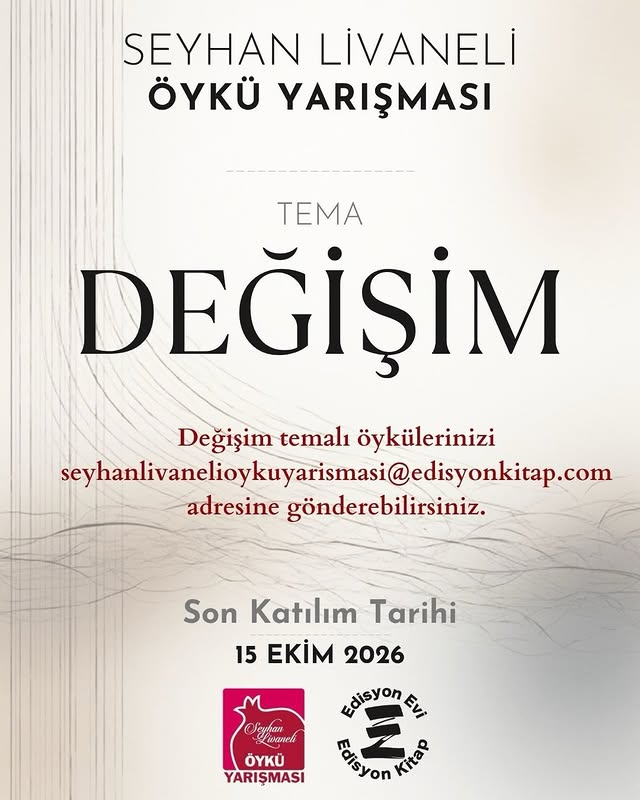
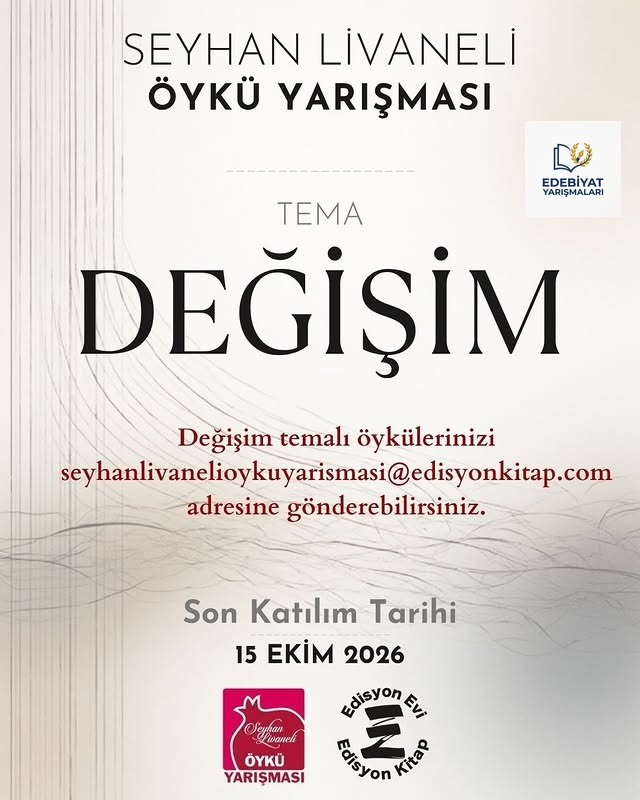
Update titles and descriptions for competition posts to remove ordinal numbers

Changed region(s): [[0.8125, 0.125, 0.9688, 0.2812]]

diff --git a/_posts/evergreen/hikaye/2024-07-13-seyhan-livaneli-oyku-yarismasi.md b/_posts/evergreen/hikaye/2024-07-13-seyhan-livaneli-oyku-yarismasi.md
@@ -1,29 +1,29 @@
 ---
 layout: post
 title: "Seyhan Livaneli Öykü Yarışması"
-description: "Eksik Parça Yayınları'nın öykü türünde kitabı yayımlanmamış 18 yaş üstü yazar ve yazar adaylarına yönelik Seyhan Livaneli Öykü Yarışması'na başvurular başladı."
+description: "Edisyon Kitap'ın öykü türünde kitabı yayımlanmamış 18 yaş üstü yazar ve yazar adaylarına yönelik Seyhan Livaneli Öykü Yarışması'na başvurular başladı."
 date: 2025-08-10
 category: articles
-tags: [her yıl tekrarlanan hikaye, ekim 2025, hikaye yarışması, genel]
-lastDate: 1760479200
-dateHuman: "15 Ekim 2025"
+tags: [her yıl tekrarlanan hikaye, ekim 2026, hikaye yarışması, genel]
+lastDate: 1792011600
+dateHuman: "15 Ekim 2026"
 attendance: "E-Posta"
-comTopic: "Vicdan"
-organizer: "Eksik Parça Yayınları"
+comTopic: "Değişim"
+organizer: "Edisyon Kitap"
 requirements: "18 yaş üzeri herkes katılabilir."
 permalink: "seyhan-livaneli-oyku-yarismasi"
-image: "https://edebiyatyarismalari.com/images/2025/agustos/7-seyhan-livaneli-oyku-odulu.jpg"
-excerpt: "Eksik Parça Yayınları'nın öykü türünde kitabı yayımlanmamış 18 yaş üstü yazar ve yazar adaylarına yönelik Seyhan Livaneli Öykü Yarışması'na başvurular başladı."
+image: "https://edebiyatyarismalari.com/images/2026/temmuz/seyhan-livaneli-oyku-yarismasi-2026.jpg"
+excerpt: "Edisyon Kitap'ın öykü türünde kitabı yayımlanmamış 18 yaş üstü yazar ve yazar adaylarına yönelik Seyhan Livaneli Öykü Yarışması'na başvurular başladı."
 ---
 
 ## Seyhan Livaneli Öykü Yarışması
 
-Eksik Parça Yayınları, öykü türünde kitabı yayımlanmamış 18 yaş üzeri yazar ve yazar adaylarına yönelik **Seyhan Livaneli Öykü Yarışması**'nı her yıl düzenliyor.
+Edisyon Kitap, öykü türünde kitabı yayımlanmamış 18 yaş üzeri yazar ve yazar adaylarına yönelik **Seyhan Livaneli Öykü Yarışması**'nı her yıl düzenliyor.
 
 - Ödül, öykü türünde kitabı yayımlanmamış 18 yaş üzeri yazar ve yazar adaylarına açıktır. (Diğer türlerde kitabı yayımlanmış olmak, başvurmaya engel değildir.)
 - Ödüle, iki öyküyle başvurulur. Öyküler elektronik ortamda veya kâğıt baskı olarak yayımlanmamış, başka bir yarışmadan ödül almamış olmalı ve yarışmanın sonucu açıklanana kadar yayımlanmamalıdır.
 - Her biri en fazla 1500 sözcük uzunluğunda iki öykü, tek Word dosyası içinde gönderilmelidir.
-- Başvuru, adayın kendisi tarafından **[email redacted]** e-posta adresine gönderilmelidir.
+- Başvuru, adayın kendisi tarafından **[email redacted]** e-posta adresine gönderilmelidir.
 - Başvuru için gönderilen e-posta, iki Word dosyasından oluşmalıdır:
     - Birinci dosyada yazarın/yazar adayının adı, iki öyküsünün adları, belirlediği rumuz, adresi, cep telefonu, e-posta adresi ve kısa özgeçmiş bilgisi bulunmalıdır.
     - İki öykünün yer alacağı diğer dosyaya yazarın adı yazılmayacaktır.
@@ -31,9 +31,9 @@ Eksik Parça Yayınları, öykü türünde kitabı yayımlanmamış 18 yaş üze
 - Düzenleme kurulu, jüri üyelerine, ön elemeden geçen adayların dosyalarını isimsiz iletecektir.
 - Düzenleme kurulu, adayların dosyalarını yönetmeliğe uygunluk, özensizlik, belirgin anlatım sorunu, yazım hatası gibi yönlerden inceleyecektir. Yarışmayı düzenleyen kurum ön seçici kurul oluşturma yetkisine sahiptir.
 - Ödüle gönderilen öykülerin hukukî sorumluluğu yazarına aittir. İntihal veya üçüncü kişilerin telif hakkı gibi durumlarda, sorumluluk yazara aittir.
-- Yarışma teması her yıl değişir; en güncel dönemin teması **"Vicdan"** olarak belirlenmiştir.
+- Yarışma teması her yıl değişir; en güncel dönemin teması **"Değişim"** olarak belirlenmiştir.
 - Seçici Kurul üyelerinin birinci derece yakınları, önceki senelerde ödül alan veya finale kalan yazarlar ödüle başvuramaz.
-- Ödülü kazanan yazarın öykü dosyası, Eksik Parça Yayınları tarafından kitaplaştırılır. Yarışma sonucu açıklanana kadar katılımcılar başka bir yayıneviyle kitap anlaşması yapamaz.
+- Ödülü kazanan yazarın öykü dosyası, Edisyon Kitap tarafından kitaplaştırılır. Yarışma sonucu açıklanana kadar katılımcılar başka bir yayıneviyle kitap anlaşması yapamaz.
 - Yarışma sonucu, Seyhan Livaneli'nin doğum günü olan 22 Ocak'ta açıklanır; ödül töreni ise izleyen nisan ayında düzenlenir.
 
 ### Seyhan Livaneli Öykü Yarışması Seçici Kurulu

diff --git a/_posts/evergreen/hikaye/2022-04-06-resat-nuri-guntekin-oyku-yarismasi.md b/_posts/evergreen/hikaye/2022-04-06-resat-nuri-guntekin-oyku-yarismasi.md
@@ -1,7 +1,7 @@
 ---
 layout: post
-title: "4. Reşat Nuri Güntekin Öykü Yarışması"
-description: "Vefa Lisesi '4. Reşat Nuri Güntekin Öykü Yarışması' düzenliyor."
+title: "Reşat Nuri Güntekin Öykü Yarışması"
+description: "Vefa Lisesi 'Reşat Nuri Güntekin Öykü Yarışması' düzenliyor."
 date: 2022-04-06
 author: "Yasemin Eyüpoğlu"
 category: articles
@@ -15,11 +15,11 @@ organizer: "Vefa Lisesi"
 requirements: "Yurt genelindeki lise ve dengi okullarda okuyan tüm öğrenciler katılabilir."
 permalink: "resat-nuri-guntekin-oyku-yarismasi"
 image: "https://edebiyatyarismalari.com/images/2022/nisan/resat-nuri-guntekin-oyku-yarismasi.jpg"
-excerpt:  "Vefa Lisesi <strong> 4. Reşat Nuri Güntekin Öykü Yarışması </strong> düzenliyor."
+excerpt:  "Vefa Lisesi <strong> Reşat Nuri Güntekin Öykü Yarışması </strong> düzenliyor."
 ---
 
-## 4. Reşat Nuri Güntekin Öykü Yarışması
-Vefa Lisesi **4.Reşat Nuri Güntekin Öykü Yarışması** düzenliyor.
+## Reşat Nuri Güntekin Öykü Yarışması
+Vefa Lisesi **Reşat Nuri Güntekin Öykü Yarışması**'nı her yıl düzenliyor.
 
 Yarışma Koşulları:
 - Adaylar, yarışmaya yalnızca bir eserle katılabilir.
@@ -32,7 +32,7 @@ Yarışma Koşulları:
 - Her okul bir (1) hikaye ile yarışmaya katılabilir.
 
 
-### 4. Reşat Nuri Güntekin Öykü Yarışması Ödülleri
+### Reşat Nuri Güntekin Öykü Yarışması Ödülleri
 - Birinciye: 3000 TL + Plaket
 - İkinciye: 2000 TL + Plaket
 - Üçüncüye: 1000 TL + Plaket

diff --git a/_posts/evergreen/hikaye/2022-04-08-sabahattin-ali-oyku-yazma-yarismasi.md b/_posts/evergreen/hikaye/2022-04-08-sabahattin-ali-oyku-yazma-yarismasi.md
@@ -1,7 +1,7 @@
 ---
 layout: post
-title: "5. Sabahattin Ali Öykü Yazma Yarışması"
-description: "Özel Fenerbahçe Anadolu Lisesi '5. Sabahattin Ali Öykü Yazma Yarışması' düzenliyor."
+title: "Sabahattin Ali Öykü Yazma Yarışması"
+description: "Özel Fenerbahçe Anadolu Lisesi 'Sabahattin Ali Öykü Yazma Yarışması' düzenliyor."
 date: 2022-04-08
 author: "Yasemin Eyüpoğlu"
 category: articles
@@ -15,11 +15,11 @@ organizer: "Özel Fenerbahçe Anadolu Lisesi"
 requirements: "Türkiye geneli resmi-özel lisede okuyan öğrenciler yarışmaya katılabilir."
 permalink: "sabahattin-ali-oyku-yazma-yarismasi"
 image: "https://edebiyatyarismalari.com/images/2022/nisan/sabahattin-ali-oyku-yazma-yarismasi.jpg"
-excerpt:  "Özel Fenerbahçe Anadolu Lisesi <strong> 5. Sabahattin Ali Öykü Yazma Yarışması </strong> düzenliyor."
+excerpt:  "Özel Fenerbahçe Anadolu Lisesi <strong> Sabahattin Ali Öykü Yazma Yarışması </strong> düzenliyor."
 ---
 
-## 5. Sabahattin Ali Öykü Yazma Yarışması
-Özel Fenerbahçe Anadolu Lisesi **5. Sabahattin Ali Öykü Yazma Yarışması** düzenliyor.
+## Sabahattin Ali Öykü Yazma Yarışması
+Özel Fenerbahçe Anadolu Lisesi **Sabahattin Ali Öykü Yazma Yarışması**'nı her yıl düzenliyor.
 
 Katılım Koşulları:
 - Katılımcılar yarışmaya tek bir öykü gönderebilir.
@@ -33,7 +33,7 @@ Yarışma Şartları:
 - Öyküler, 4 sayfadan fazla olmamalıdır.
 
 
-### 5. Sabahattin Ali Öykü Yazma Yarışması Ödülleri
+### Sabahattin Ali Öykü Yazma Yarışması Ödülleri
 - Birinci: 2000 TL
 - İkinci: 1500 TL 
 - Üçüncü: 1000 TL 